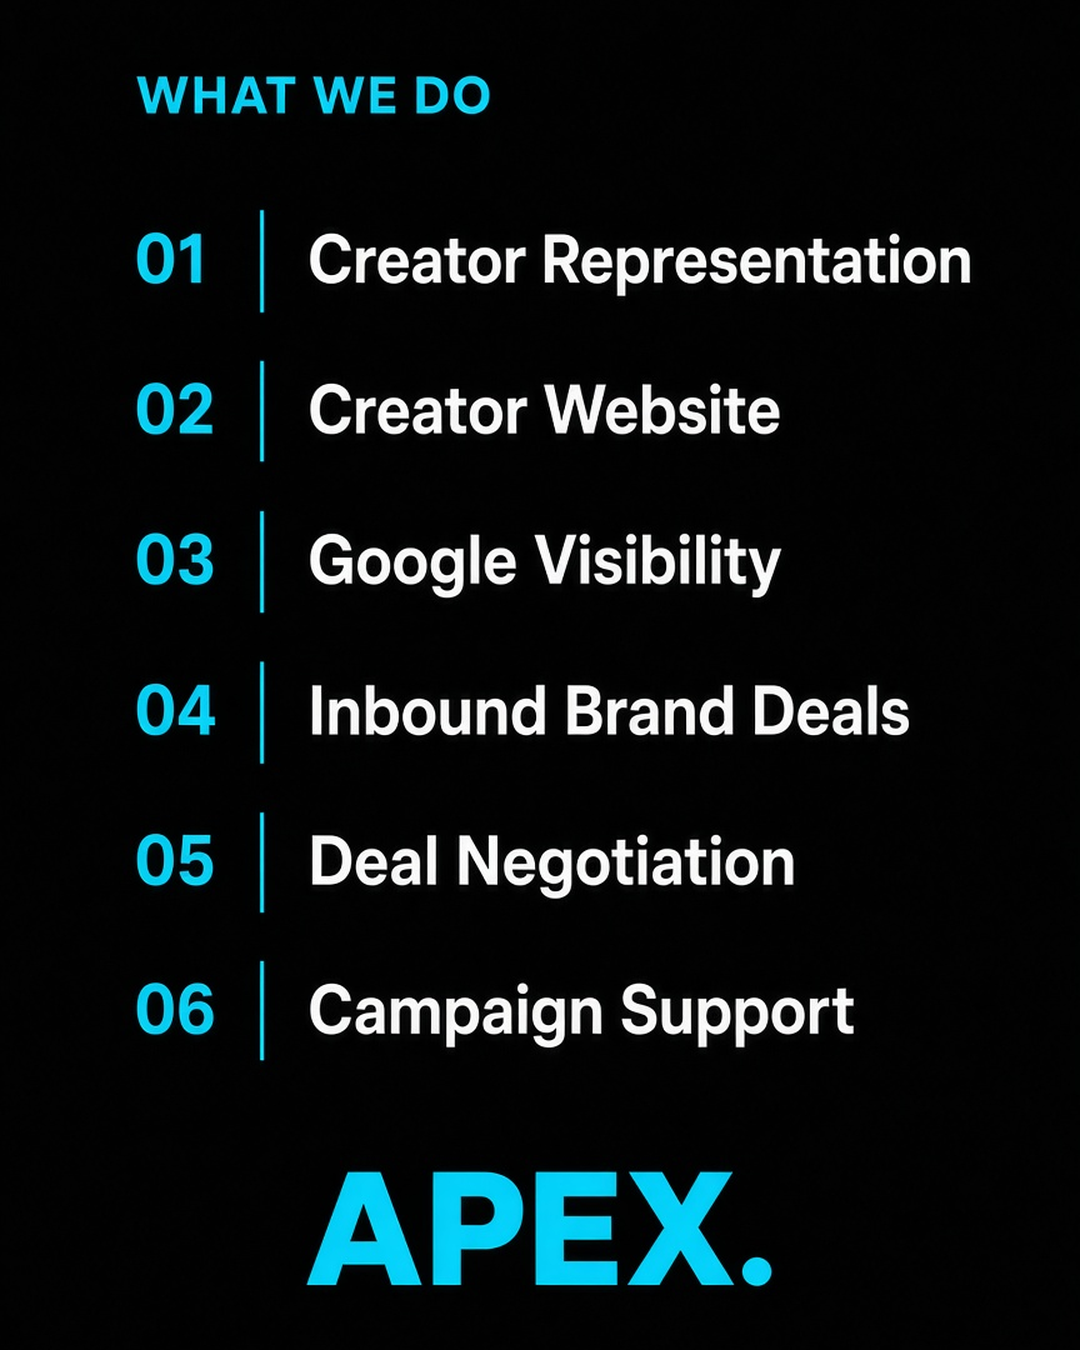
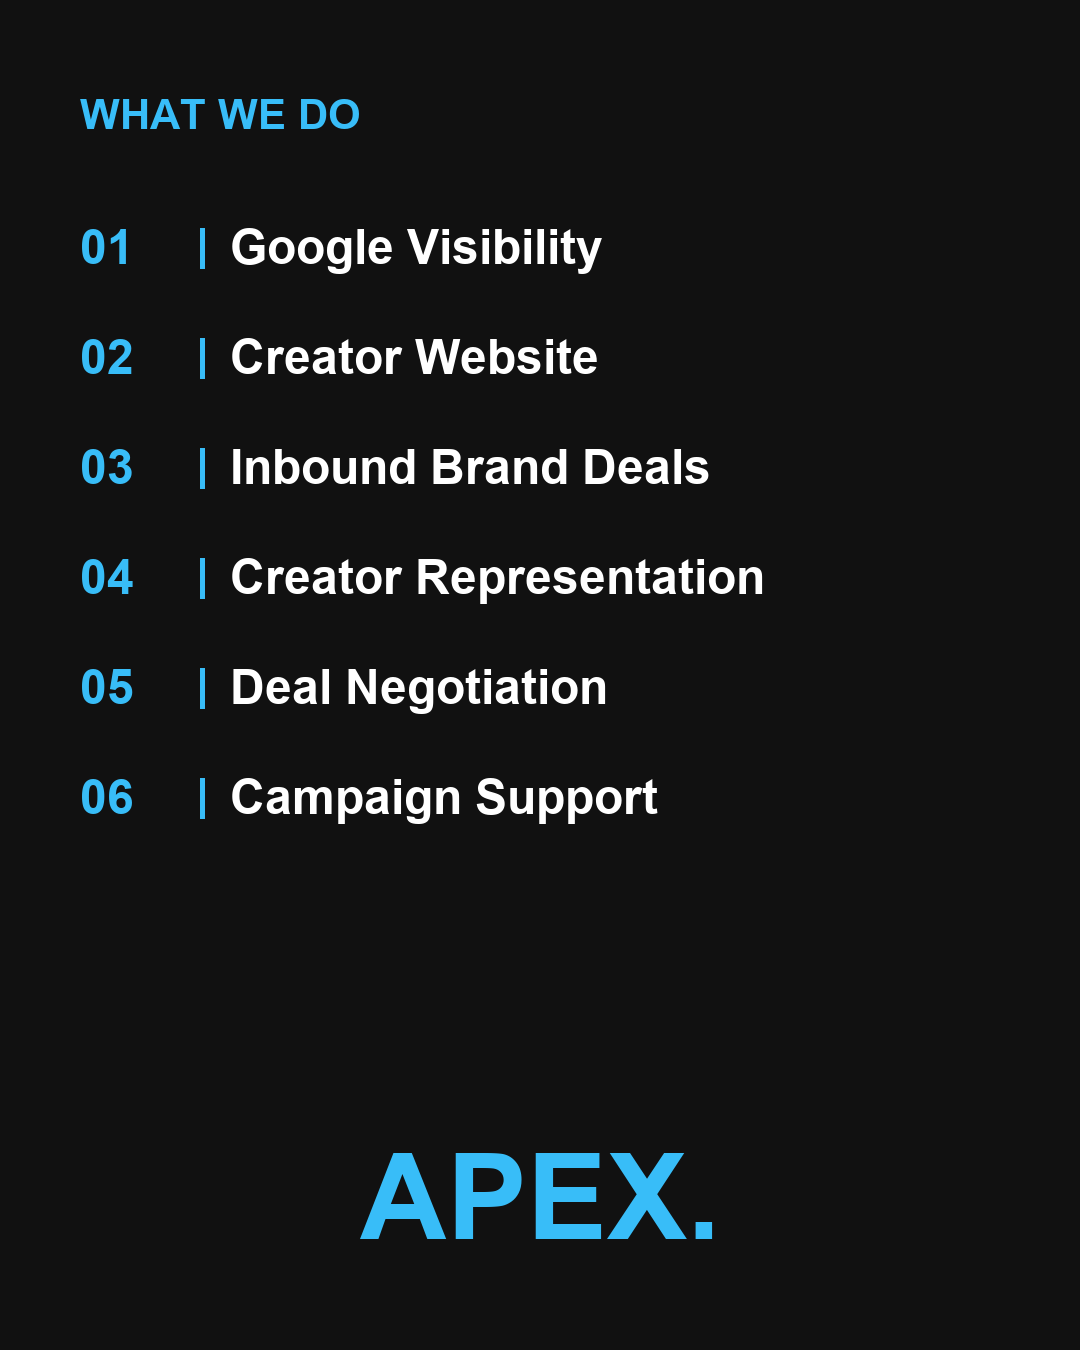
Reorder services to lead with Google visibility and creator website.

diff --git a/src/routes/index.tsx b/src/routes/index.tsx
@@ -39,10 +39,11 @@ const serviceSchema = {
   description: PAGE_DESCRIPTION,
   areaServed: "Worldwide",
   serviceType: [
+    "Search visibility for creators",
+    "Creator website development",
+    "Brand partnership support",
     "Creator talent management",
     "Influencer representation",
-    "Creator website development",
-    "Brand partnership visibility",
     "Sponsorship negotiation",
   ],
   provider: {
@@ -131,8 +132,8 @@ const platforms = [
 const services = [
   {
     n: "01",
-    t: "Creator Representation",
-    d: "Hands on talent management so you can create while we handle career strategy and deal flow.",
+    t: "Google Visibility",
+    d: "Own what shows when brands search your name: search presence, positioning, and partnership ready signals.",
   },
   {
     n: "02",
@@ -141,13 +142,13 @@ const services = [
   },
   {
     n: "03",
-    t: "Google Visibility",
-    d: "Own what shows when brands search your name: search presence, positioning, and partnership ready signals.",
+    t: "Inbound Brand Deals",
+    d: "When brands reach out through your site, we help you evaluate the opportunity and move it forward.",
   },
   {
     n: "04",
-    t: "Inbound Brand Deals",
-    d: "When brands reach out through your site, we help you evaluate the opportunity and move it forward.",
+    t: "Creator Representation",
+    d: "Hands on talent management so you can create while we handle career strategy and deal flow.",
   },
   {
     n: "05",
